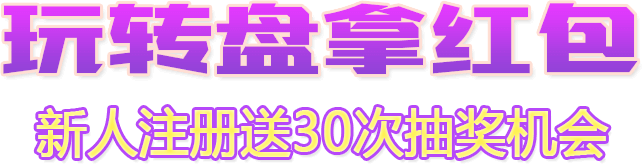
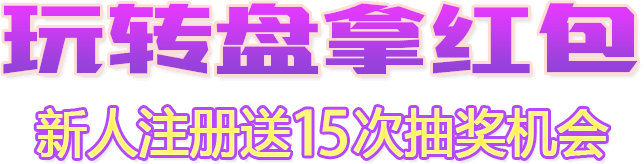
update intro

Changed region(s): [[0.4348, 0.6402, 0.559, 0.9756]]

diff --git a/resources/views/staradmin/client/intro.blade.php b/resources/views/staradmin/client/intro.blade.php
@@ -47,7 +47,8 @@
         </div>
         <div class="panel">
             <div class="panel-title">新人奖励说明</div>
-            独特新颖转盘抽奖，每1场幸运转盘可抽奖15次，99%概率可抽到15元红包。<br>新人注册送2场幸运转盘，可抽30次奖，快来体验！
+            独特新颖转盘抽奖，每1场幸运转盘可抽奖15次，99%概率可抽到15元红包。
+            <!-- <br>新人注册送2场幸运转盘，可抽30次奖，快来体验！ -->
             <!-- 进入转盘默认有1200积分(不可提现)，使用倍增式猜单数或者双数（游戏里有介绍）。<br /><span class="highlight">在转盘里赚到的积分可兑换红包(可提现)。</span><br />每次幸运转盘最多能兑换15元红包。如果你有10次机会，就可以赚150元。 -->            
         </div>
         <div class="panel bottom-space">
